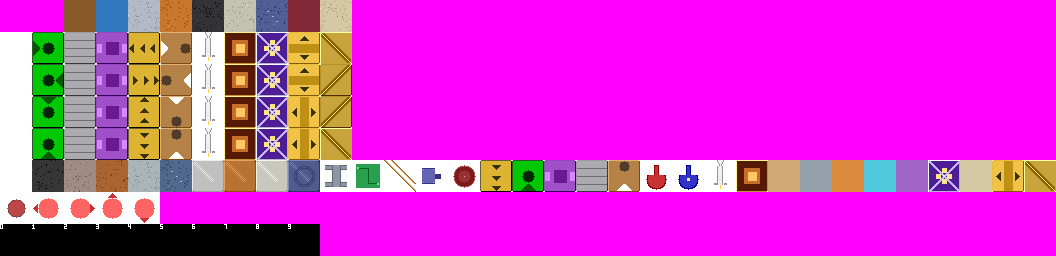
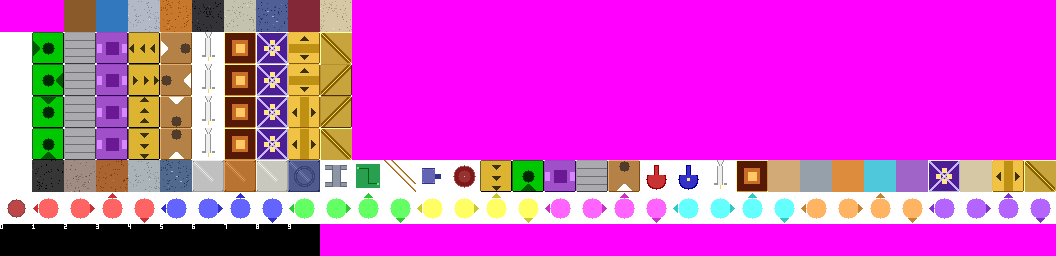
renderer: bake 8 directional player palettes into the atlas
The misc row's player section grows from 4 cells (one direction for
player_idx=0) to 32 cells (8 players × 4 directions). Column layout:
col 0 stays the biter; cols 1..32 pack (player_idx, direction) so
player p facing direction d_idx sits at 1 + p * 4 + d_idx. Eight
matches the distinct palette entries in
factoriax.ui.icons.PLAYER_COLORS; players beyond 8 wrap modulo 8 the
same way the editor and play HUD already do.

build_player_sprite now returns shape
(_ATLAS_NUM_PLAYERS, _ATLAS_NUM_DIRECTIONS, tile_px, tile_px, 4) and
render_map's _stamp_player picks the cell with
player_sprite[i % 8, direction - 1]. The mod is the runtime guard
that keeps render_map well-defined for num_players > 8 without
expanding the atlas. Multi-player play now shows each player in
their own color, all rotating with their own facing.

Atlas grows from 13.9 KB to 15.6 KB; sidecar JSON gains the per-slot
column map and a num_players field. atlas.layout.md documents the
packing scheme and the modulo-8 wrap.

Changed region(s): [[0.125, 0.75, 1.0, 0.875]]

diff --git a/factoriax/jax_renderer.py b/factoriax/jax_renderer.py
@@ -123,9 +123,15 @@ _ATLAS_ROW_MACHINES_BASE: int = 1
 _ATLAS_NUM_DIRECTIONS: int = 4
 _ATLAS_ROW_ITEMS: int = 5
 _ATLAS_ROW_MISC: int = 6
-# Misc row column layout: col 0 = biter, cols 1..4 = player[direction].
+# Misc row column layout: col 0 = biter, then 8 players × 4 directions
+# packed as (player_idx, direction) starting at col 1. Player p's
+# direction-d cell sits at col 1 + p * 4 + (d - 1). Eight players is
+# the cap because PLAYER_COLORS in factoriax/ui/icons.py defines a
+# distinct palette per slot up to 8; players beyond that wrap modulo
+# 8 (matching the editor and play HUD's color-recycling behavior).
 _ATLAS_MISC_BITER: int = 0
 _ATLAS_MISC_PLAYER_BASE: int = 1
+_ATLAS_NUM_PLAYERS: int = 8
 _ATLAS_ROW_DIGITS: int = 7
 
 
@@ -233,24 +239,31 @@ def build_machine_atlas(tile_px: int) -> jnp.ndarray:
 
 
 def build_player_sprite(tile_px: int) -> jnp.ndarray:
-    """Build the directional player sprite stack from the sprite atlas.
+    """Build the per-player, directional player sprite stack.
 
-    The misc row holds one player cell per
-    :class:`~factoriax.constants.Direction` starting at column
-    :data:`_ATLAS_MISC_PLAYER_BASE`, ordered LEFT, RIGHT, UP, DOWN.
+    The misc row packs eight players × four directions starting at
+    column :data:`_ATLAS_MISC_PLAYER_BASE`. Player ``p`` facing
+    direction ``d`` (1..4) lives at column
+    ``_ATLAS_MISC_PLAYER_BASE + p * _ATLAS_NUM_DIRECTIONS + (d - 1)``.
 
     Args:
         tile_px: Tile side length in pixels.
 
     Returns:
-        JAX array of shape ``(4, tile_px, tile_px, 4)``. Index 0 is
-        direction LEFT, 3 is direction DOWN.
+        JAX array of shape
+        ``(_ATLAS_NUM_PLAYERS, _ATLAS_NUM_DIRECTIONS, tile_px, tile_px, 4)``.
+        Players 0..7 each have four directional cells in the order
+        LEFT, RIGHT, UP, DOWN.
     """
-    sprites = []
-    for d in range(_ATLAS_NUM_DIRECTIONS):
-        cell = _atlas_cell(_ATLAS_ROW_MISC, _ATLAS_MISC_PLAYER_BASE + d)
-        sprites.append(_downsample(cell, tile_px))
-    return jnp.array(np.stack(sprites, axis=0))
+    sprites: list[list[np.ndarray]] = []
+    for p in range(_ATLAS_NUM_PLAYERS):
+        per_player: list[np.ndarray] = []
+        for d in range(_ATLAS_NUM_DIRECTIONS):
+            col = _ATLAS_MISC_PLAYER_BASE + p * _ATLAS_NUM_DIRECTIONS + d
+            cell = _atlas_cell(_ATLAS_ROW_MISC, col)
+            per_player.append(_downsample(cell, tile_px))
+        sprites.append(per_player)
+    return jnp.array(np.stack([np.stack(rows, axis=0) for rows in sprites], axis=0))
 
 
 def build_item_color_atlas() -> jnp.ndarray:
@@ -403,8 +416,9 @@ def render_map(
         block_atlas: Shape ``(num_block_types, tile_px, tile_px, 4)``.
         machine_atlas: Shape ``(4, num_machine_types, tile_px, tile_px, 4)``
             indexed by ``(direction - 1, machine_type)``.
-        player_sprite: Shape ``(4, tile_px, tile_px, 4)`` indexed by
-            ``direction - 1``.
+        player_sprite: Shape
+            ``(_ATLAS_NUM_PLAYERS, 4, tile_px, tile_px, 4)`` indexed by
+            ``(player_idx % _ATLAS_NUM_PLAYERS, direction - 1)``.
 
     Returns:
         uint8 RGB image of shape ``(H * tile_px, W * tile_px, 3)``.
@@ -447,7 +461,13 @@ def render_map(
         px = state.player_positions[i, 0].astype(jnp.int32)
         py = state.player_positions[i, 1].astype(jnp.int32)
         pdir = state.player_directions[i].astype(jnp.int32)
-        sprite = player_sprite[jnp.clip(pdir - 1, 0, _ATLAS_NUM_DIRECTIONS - 1)]
+        # Player slot is i mod _ATLAS_NUM_PLAYERS; players beyond the
+        # palette wrap (matches the editor + play HUD).
+        slot = i % _ATLAS_NUM_PLAYERS
+        sprite = player_sprite[
+            slot,
+            jnp.clip(pdir - 1, 0, _ATLAS_NUM_DIRECTIONS - 1),
+        ]
         region = jax.lax.dynamic_slice(
             img, (py * tile_px, px * tile_px, jnp.int32(0)), (tile_px, tile_px, 3)
         )

diff --git a/scripts/build_atlas.py b/scripts/build_atlas.py
@@ -30,8 +30,11 @@ Directional categories carry one cell per
   ``ASSEMBLER``, ``FURNACE``, ``SCIENCE_LAB``, ``ROCKET``) are
   rendered once and duplicated across all four rows so a uniform
   gather works at render time.
-- Player: misc row columns 1-4 hold the same four directions for
-  ``player_idx=0``. Column 0 holds the biter sprite.
+- Player: misc row col 0 holds the biter; cols 1..32 hold eight
+  players × four directions packed as ``(player_idx, direction)``,
+  so player ``p`` direction ``d_idx`` lives at
+  ``1 + p * 4 + d_idx``. Players beyond eight wrap modulo eight to
+  match :data:`factoriax.ui.icons.PLAYER_COLORS`.
 
 Usage::
 
@@ -99,6 +102,12 @@ NUM_ROWS: int = ROW_DIGITS + 1  # 8
 # Misc row column layout.
 COL_MISC_BITER: int = 0
 COL_MISC_PLAYER_BASE: int = 1
+# Eight players × four directions = 32 player cells, packed as
+# (player_idx, direction) starting at COL_MISC_PLAYER_BASE. Player p
+# direction d sits at COL_MISC_PLAYER_BASE + p * NUM_DIRECTIONS + d_idx.
+# Eight matches the distinct PLAYER_COLORS palette in
+# factoriax/ui/icons.py; players beyond 8 wrap modulo 8.
+NUM_PLAYERS: int = 8
 
 
 # Magenta with alpha=255 acts as the "missing sprite" sentinel. The
@@ -204,11 +213,15 @@ def _item_cell(item: ItemType) -> np.ndarray | None:
     return icon.astype(np.uint8)
 
 
-def _player_cell(direction: Direction) -> np.ndarray:
-    """Return the RGBA player sprite (player 0) facing *direction*."""
+def _player_cell(player_idx: int, direction: Direction) -> np.ndarray:
+    """Return the RGBA sprite for *player_idx* facing *direction*.
+
+    Player colors come from :data:`factoriax.ui.icons.PLAYER_COLORS`,
+    which provides a distinct palette per slot.
+    """
     sprite = create_player_texture(
         direction=int(direction),
-        player_idx=0,
+        player_idx=player_idx,
         is_selected=True,
         size=CELL_PX,
     )
@@ -272,10 +285,12 @@ def _build_atlas_array() -> np.ndarray:
             continue
         _put(ROW_ITEMS, int(item), cell)
 
-    # Row 6: misc.
+    # Row 6: misc — biter + per-player directional sprites.
     _put(ROW_MISC, COL_MISC_BITER, _biter_cell())
-    for d_idx, direction in enumerate(_DIRECTION_ORDER):
-        _put(ROW_MISC, COL_MISC_PLAYER_BASE + d_idx, _player_cell(direction))
+    for player_idx in range(NUM_PLAYERS):
+        for d_idx, direction in enumerate(_DIRECTION_ORDER):
+            col = COL_MISC_PLAYER_BASE + player_idx * NUM_DIRECTIONS + d_idx
+            _put(ROW_MISC, col, _player_cell(player_idx, direction))
 
     # Row 7: digits.
     digit_atlas = np.asarray(build_digit_atlas())
@@ -316,10 +331,15 @@ def _build_atlas_json() -> dict:
                 "columns": {
                     "biter": COL_MISC_BITER,
                     **{
-                        f"player_{d.name}": COL_MISC_PLAYER_BASE + i
+                        f"player{p}_{d.name}": (
+                            COL_MISC_PLAYER_BASE + p * NUM_DIRECTIONS + i
+                        )
+                        for p in range(NUM_PLAYERS)
                         for i, d in enumerate(_DIRECTION_ORDER)
                     },
                 },
+                "num_players": NUM_PLAYERS,
+                "directions": direction_axis,
             },
             "digits": {
                 "row": ROW_DIGITS,

diff --git a/factoriax/assets/atlas.layout.md b/factoriax/assets/atlas.layout.md
@@ -40,7 +40,7 @@ artifact rather than silent zeros.
 |   3 | machines, dir UP       | `factoriax.constants.MachineType`| 11    | Same, with `direction=UP`. |
 |   4 | machines, dir DOWN     | `factoriax.constants.MachineType`| 11    | Same, with `direction=DOWN`. |
 |   5 | items                  | `factoriax.constants.ItemType`   | 33    | Sourced from `render_item_icon`. Currently unused by `render_map`; reserved for future HUD work. |
-|   6 | misc                   | (manually enumerated)            | 5     | col 0 = biter; cols 1-4 = player[LEFT, RIGHT, UP, DOWN] for `player_idx=0`. |
+|   6 | misc                   | (manually enumerated)            | 33    | col 0 = biter; cols 1..32 hold 8 players × 4 directions packed as `(player_idx, direction)` starting at col 1, with `col = 1 + player_idx * 4 + direction_idx`. Player slots beyond 8 wrap modulo 8. |
 |   7 | digits                 | digits 0-9                       | 10    | Each cell is 32×32; the 3×5 glyph is rendered at the cell's top-left, padded with zeros. Alpha=255. |
 
 Width of the atlas is `max(num_cells_per_row) = 33` (driven by
@@ -62,6 +62,11 @@ machines (`PALLET`, `ASSEMBLER`, `FURNACE`, `SCIENCE_LAB`,
 `ROCKET`, `NONE`) render once with `direction=DOWN` and that sprite
 is duplicated across all four direction rows so the renderer's
 gather is uniform.
+
+Player slots use the same `[LEFT, RIGHT, UP, DOWN]` axis but are
+also keyed by `player_idx`. Eight palettes are baked in (the
+distinct entries of `PLAYER_COLORS` in `factoriax/ui/icons.py`);
+players 8 and beyond reuse palette 0 onwards via modulo-8.
 
 ## Sidecar JSON shape
 
@@ -85,9 +90,12 @@ gather is uniform.
     "items":    {"row": 5, "names": ["EMPTY", "COAL", ...], "missing": "magenta"},
     "misc":     {
       "row": 6,
+      "num_players": 8,
+      "directions": ["LEFT", "RIGHT", "UP", "DOWN"],
       "columns": {
         "biter": 0,
-        "player_LEFT": 1, "player_RIGHT": 2, "player_UP": 3, "player_DOWN": 4
+        "player0_LEFT": 1, "player0_RIGHT": 2, "player0_UP": 3, "player0_DOWN": 4,
+        "player1_LEFT": 5, "...": "...", "player7_DOWN": 32
       }
     },
     "digits":   {"row": 7, "names": ["0", "1", "2", "3", "4", "5", "6", "7", "8", "9"]}
@@ -124,9 +132,10 @@ asserts byte-equivalence with the committed copies.
   "machine starved of input", etc. — visual debugging aids.
 - **Glyph atlas**: a richer text atlas to phase out the pygame text
   overlay. Out of scope for v1 by spec decision.
-- **Per-player directional sprites for `player_idx > 0`**: currently
-  only `player_idx=0` has directional cells in the misc row.
-  Multi-player play renders all players with the same sprite.
+- **Per-player directional sprites beyond 8 slots**: currently the
+  misc row caps at 8 distinct palettes. A 9th-or-later player
+  recycles palette 0 onwards. Adding a dedicated row block per
+  player (or sourcing palettes generatively) would lift the cap.
 
 These are listed so the layout doesn't silently invalidate them.
 Adding a row at the bottom is non-breaking; reordering existing
